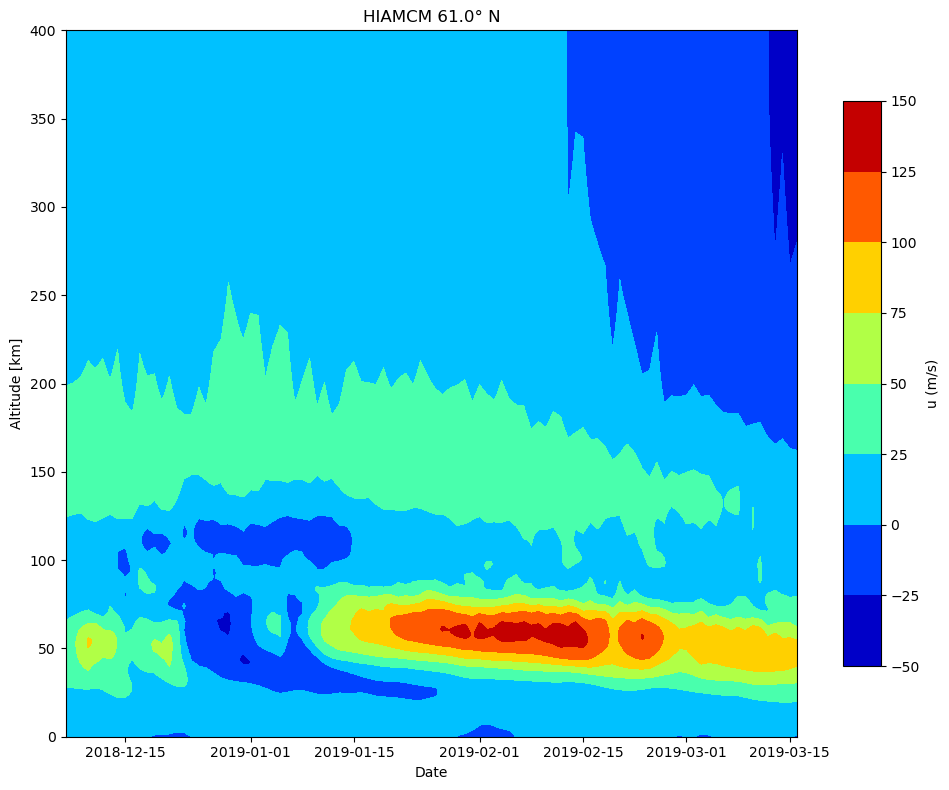
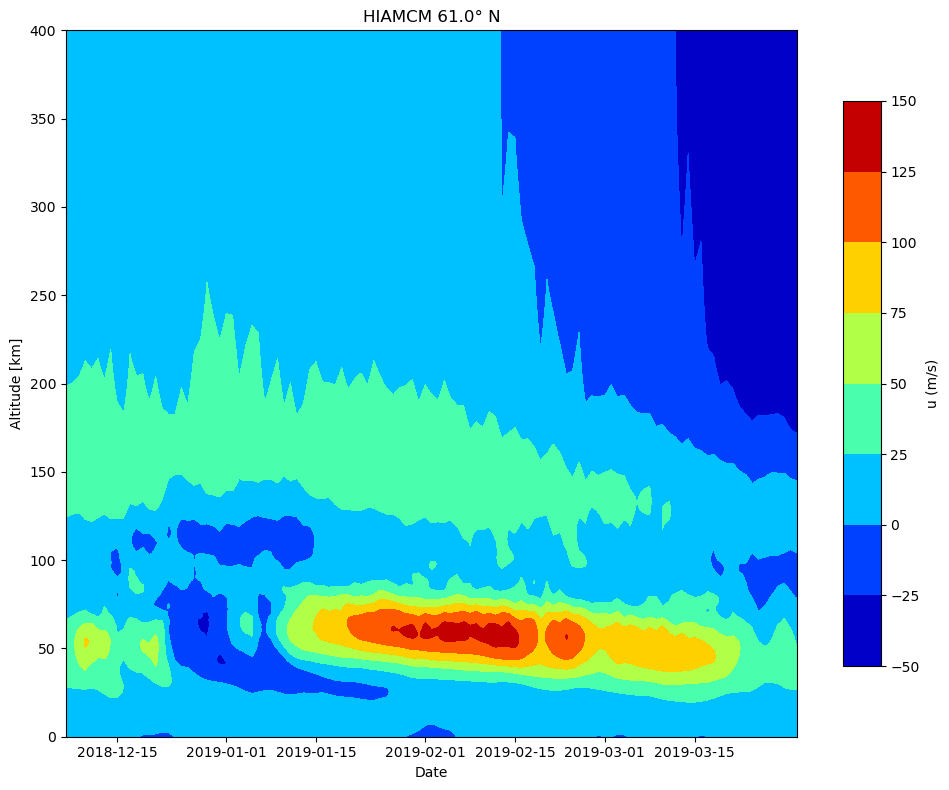
more days of HIAMCM

Changed region(s): [[0.0917, 0.5772, 0.8556, 0.9722], [0.0917, 0.0304, 0.8556, 0.7291], [0.7945, 0.9418, 0.8862, 0.9722]]

diff --git a/data/HIAMCM/reader.py b/data/HIAMCM/reader.py
@@ -10,7 +10,7 @@ import xarray as xr
 import pandas as pd
 import matplotlib.pyplot as plt
 
-fpath = "07DEC2018-16MAR2019.mzgw.grads"
+fpath = "07DEC2018-31MAR2019.mzgw.grads"
 
 #      it = 0
 #      krec  = 0
@@ -27,10 +27,14 @@ fpath = "07DEC2018-16MAR2019.mzgw.grads"
 nlat    = 90
 lev1    = 261
 idat    = 54
-ndates  = 100
 undef   = -9.99e33
 
-sDate   = datetime.datetime(2018,12,7)
+sDate_str   = fpath[:9]
+fDate_str   = fpath[10:19]
+sDate       = datetime.datetime.strptime(sDate_str,'%d%b%Y')
+fDate       = datetime.datetime.strptime(fDate_str,'%d%b%Y')
+ndates      = (fDate-sDate).days+1
+
 dates   = [sDate]
 while len(dates) < ndates:
     new_day = dates[-1] + datetime.timedelta(days=1)

diff --git a/climo_plot.py b/climo_plot.py
@@ -1248,9 +1248,9 @@ if __name__ == '__main__':
 
     output_base_dir     = 'output'
     mstid_data_dir      = os.path.join('data','mongo_out','mstid_MUSIC','guc')
-    plot_climatologies  = True
-    plot_histograms     = True
-    plot_stackplots     = False
+    plot_climatologies  = False
+    plot_histograms     = False
+    plot_stackplots     = True
 
     radars          = []
     # 'High Latitude Radars'

diff --git a/HIAMCM.py b/HIAMCM.py
@@ -22,7 +22,7 @@ mpl.rcParams['figure.figsize'] = np.array([15, 8])
 mpl.rcParams['axes.xmargin']   = 0
 
 class HIAMCM(object):
-    def __init__(self,data_in='data/HIAMCM/07DEC2018-16MAR2019.mzgw.grads.nc'):
+    def __init__(self,data_in='data/HIAMCM/07DEC2018-31MAR2019.mzgw.grads.nc'):
         self.load_data(data_in)
     
     def load_data(self,data_in):
